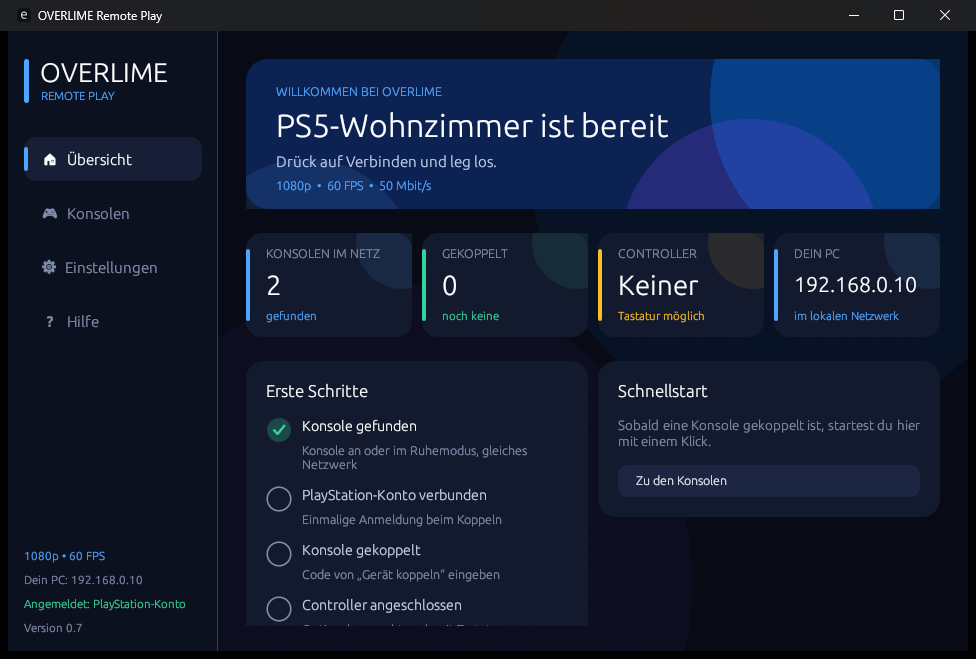
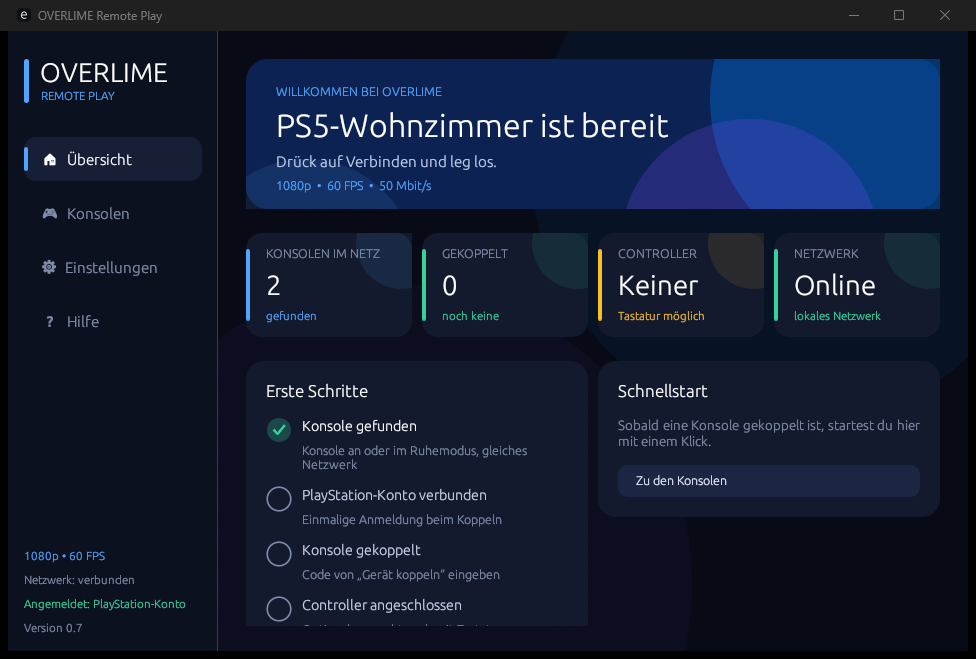
Keine IP-Adressen mehr in der App und im Protokoll, neue Screenshots

Changed region(s): [[0.7684, 0.3642, 0.9529, 0.4856], [0.0615, 0.8498, 0.123, 0.9105], [0.0307, 0.0, 0.1537, 0.0303]]

diff --git a/app/src/main.rs b/app/src/main.rs
@@ -313,7 +313,7 @@ impl App {
     }
 
     fn pump_log(&mut self) {
-        let l = ffi::take_log();
+        let l = mask_ips(&ffi::take_log());
         if !l.is_empty() {
             self.log.push_str(&l);
             if self.log.len() > 60_000 {
@@ -350,7 +350,7 @@ impl App {
                     }
                 }
                 Msg::Error(e) => {
-                    self.status = format!("Fehler: {e}");
+                    self.status = format!("Fehler: {}", mask_ips(&e));
                     self.searching = false;
                 }
                 Msg::Info(s) => self.status = s,
@@ -383,7 +383,7 @@ impl App {
                 Msg::PairErr(e) => {
                     if let Some(d) = self.dialog.as_mut() {
                         d.step = Step::Failed;
-                        d.message = e;
+                        d.message = mask_ips(&e);
                     }
                 }
                 Msg::StreamStarted(stream, name) => {
@@ -419,7 +419,7 @@ impl App {
                 }
                 Msg::StreamErr(e) => {
                     self.starting = None;
-                    self.start_error = Some(e);
+                    self.start_error = Some(mask_ips(&e));
                 }
                 Msg::UpdateAvail(r) => {
                     if self.settings.auto_update && !self.update_busy && self.session.is_none() {
@@ -444,6 +444,64 @@ impl App {
 }
 
 /// Übersetzt chiaki-Fehlertexte in verständliches Deutsch.
+/// Ersetzt IPv4-Adressen (auch mit :Port) durch x.x.x.x, damit nirgends IPs auftauchen.
+fn mask_ips(s: &str) -> String {
+    let b = s.as_bytes();
+    let mut out = String::with_capacity(s.len());
+    let mut i = 0;
+    while i < b.len() {
+        if b[i].is_ascii_digit() {
+            let mut j = i;
+            let mut groups = 0;
+            let mut ok = true;
+            loop {
+                let st = j;
+                while j < b.len() && b[j].is_ascii_digit() && j - st < 3 {
+                    j += 1;
+                }
+                if j == st {
+                    ok = false;
+                    break;
+                }
+                groups += 1;
+                if groups == 4 {
+                    break;
+                }
+                if j < b.len() && b[j] == b'.' {
+                    j += 1;
+                } else {
+                    ok = false;
+                    break;
+                }
+            }
+            if ok && groups == 4 {
+                out.push_str("x.x.x.x");
+                if j < b.len() && b[j] == b':' {
+                    let mut k = j + 1;
+                    while k < b.len() && b[k].is_ascii_digit() {
+                        k += 1;
+                    }
+                    j = k;
+                }
+                i = j;
+                continue;
+            }
+        }
+        let ch = s[i..].chars().next().unwrap();
+        out.push(ch);
+        i += ch.len_utf8();
+    }
+    out
+}
+
+/// "14230000" -> "14.23"
+fn pretty_version(v: &str) -> String {
+    match v.trim().parse::<u32>() {
+        Ok(n) if n > 0 => format!("{}.{:02}", n / 1_000_000, (n / 10_000) % 100),
+        _ => "–".to_string(),
+    }
+}
+
 fn german_reason(msg: &str) -> String {
     let m = msg.to_lowercase();
     let t = if m.contains("unknown session request") || m.contains("ctrl failed to connect") {
@@ -660,8 +718,7 @@ impl App {
                                 ui.add_space(8.0);
                                 ui.label(RichText::new(if c.is_ps5 { "PlayStation 5" } else { "PlayStation 4" }).color(BLUE_LIGHT).size(13.0).strong());
                                 ui.label(RichText::new(&c.name).size(24.0).strong());
-                                let sw = if c.system_version.is_empty() { "–".to_string() } else { c.system_version.clone() };
-                                ui.label(RichText::new(format!("{}  •  Software {}", c.addr, sw)).color(TEXT_DIM).size(13.0));
+                                ui.label(RichText::new(format!("Systemsoftware {}", pretty_version(&c.system_version))).color(TEXT_DIM).size(13.0));
                                 ui.horizontal(|ui| {
                                     match c.state {
                                         State::Ready => pill(ui, "Bereit", GREEN),
@@ -755,7 +812,7 @@ impl App {
             ui.add_space(6.0);
             section(ui, "🌐  Verbindung", |ui| {
                 label(ui, "Konsole per IP hinzufügen", "Nur für Internet/VPN (z. B. Tailscale). Im Heimnetz wird alles automatisch gefunden.");
-                ui.add(egui::TextEdit::singleline(&mut st.manual_ip).hint_text("z. B. 100.64.0.5").desired_width(260.0));
+                ui.add(egui::TextEdit::singleline(&mut st.manual_ip).hint_text("IP-Adresse der Konsole").desired_width(260.0));
                 ui.add_space(6.0);
                 ui.checkbox(&mut st.auto_update, "Updates automatisch installieren");
                 ui.add_space(6.0);
@@ -1022,7 +1079,7 @@ impl App {
                                 } else {
                                     ui.label(RichText::new("Stream beendet").size(20.0).strong());
                                 }
-                                ui.label(RichText::new(german_reason(&s.message)).color(TEXT_DIM));
+                                ui.label(RichText::new(german_reason(&mask_ips(&s.message))).color(TEXT_DIM));
                                 if s.ended_error {
                                     ui.add_space(6.0);
                                     egui::Frame::none().fill(BG).rounding(10.0).inner_margin(egui::Margin::same(10.0)).show(ui, |ui| {
@@ -1179,7 +1236,7 @@ impl eframe::App for App {
                     ui.label(RichText::new(format!("Version {VERSION}")).color(TEXT_DIM).size(12.0));
                     let who = if self.settings.psn_name.is_empty() { "PlayStation-Konto".to_string() } else { self.settings.psn_name.clone() };
                     ui.label(RichText::new(format!("Angemeldet: {who}")).color(GREEN).size(12.0));
-                    ui.label(RichText::new(format!("Dein PC: {}", self.local_ip)).color(TEXT_DIM).size(12.0));
+                    ui.label(RichText::new(if self.local_ip == "?" { "Netzwerk: offline" } else { "Netzwerk: verbunden" }).color(TEXT_DIM).size(12.0));
                     let q = format!("{} • {} FPS", ["540p", "720p", "1080p"][self.settings.resolution], [30, 60][self.settings.fps]);
                     ui.label(RichText::new(q).color(BLUE_LIGHT).size(12.0));
                 });
@@ -1255,8 +1312,9 @@ fn selftest() {
             let _ = writeln!(f, "stream start error: {e}");
         }
     }
+    let _ = writeln!(f, "mask test: {}", mask_ips("Trying 127.0.0.1:9295 und 192.168.178.26, v1.2.3 ok 12.5"));
     let _ = writeln!(f, "--- log ---
-{}", ffi::take_log());
+{}", mask_ips(&ffi::take_log()));
     let _ = writeln!(f, "done");
 }
 

diff --git a/app/src/pages.rs b/app/src/pages.rs
@@ -83,7 +83,8 @@ impl App {
                     if pad_ok { "Gamepad aktiv" } else { "Tastatur möglich" },
                     if pad_ok { GREEN } else { YELLOW },
                 );
-                tile(ui, tw, "DEIN PC", &self.local_ip, "im lokalen Netzwerk", BLUE_LIGHT);
+                let online = self.local_ip != "?";
+                tile(ui, tw, "NETZWERK", if online { "Online" } else { "Offline" }, "lokales Netzwerk", if online { GREEN } else { RED });
             });
 
             ui.add_space(14.0);
